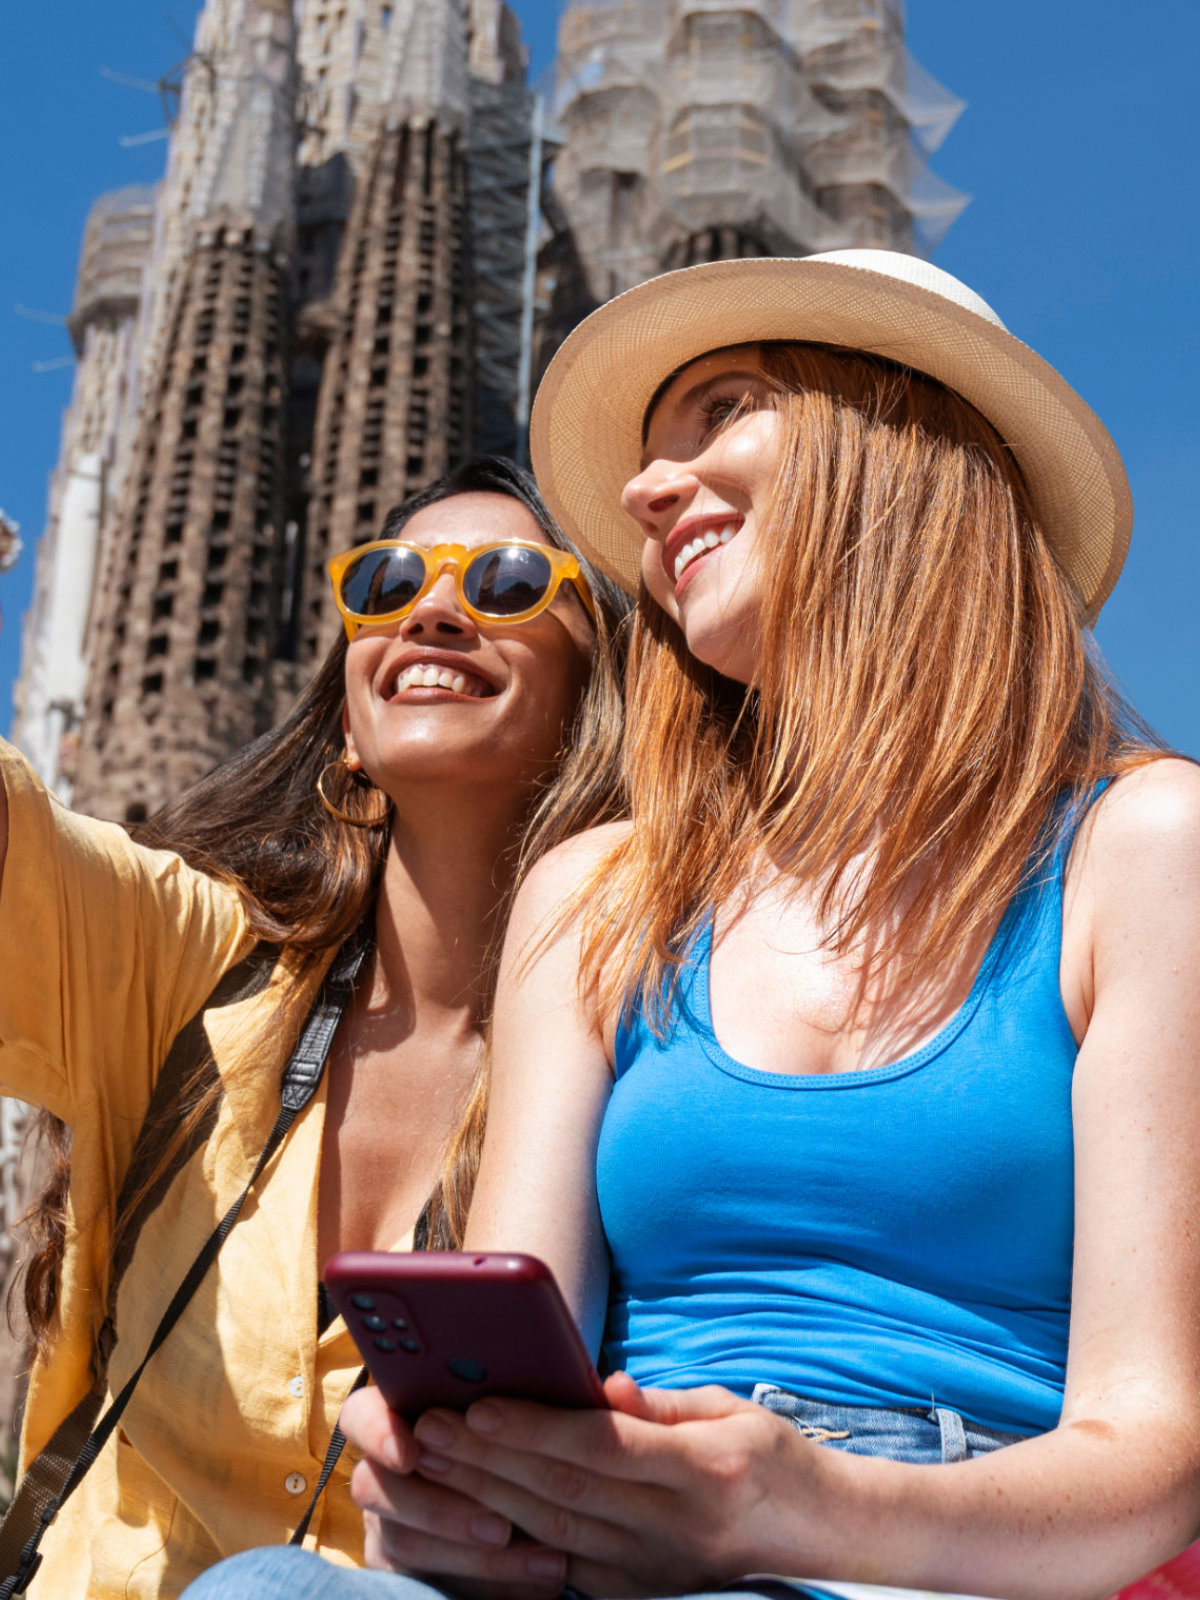
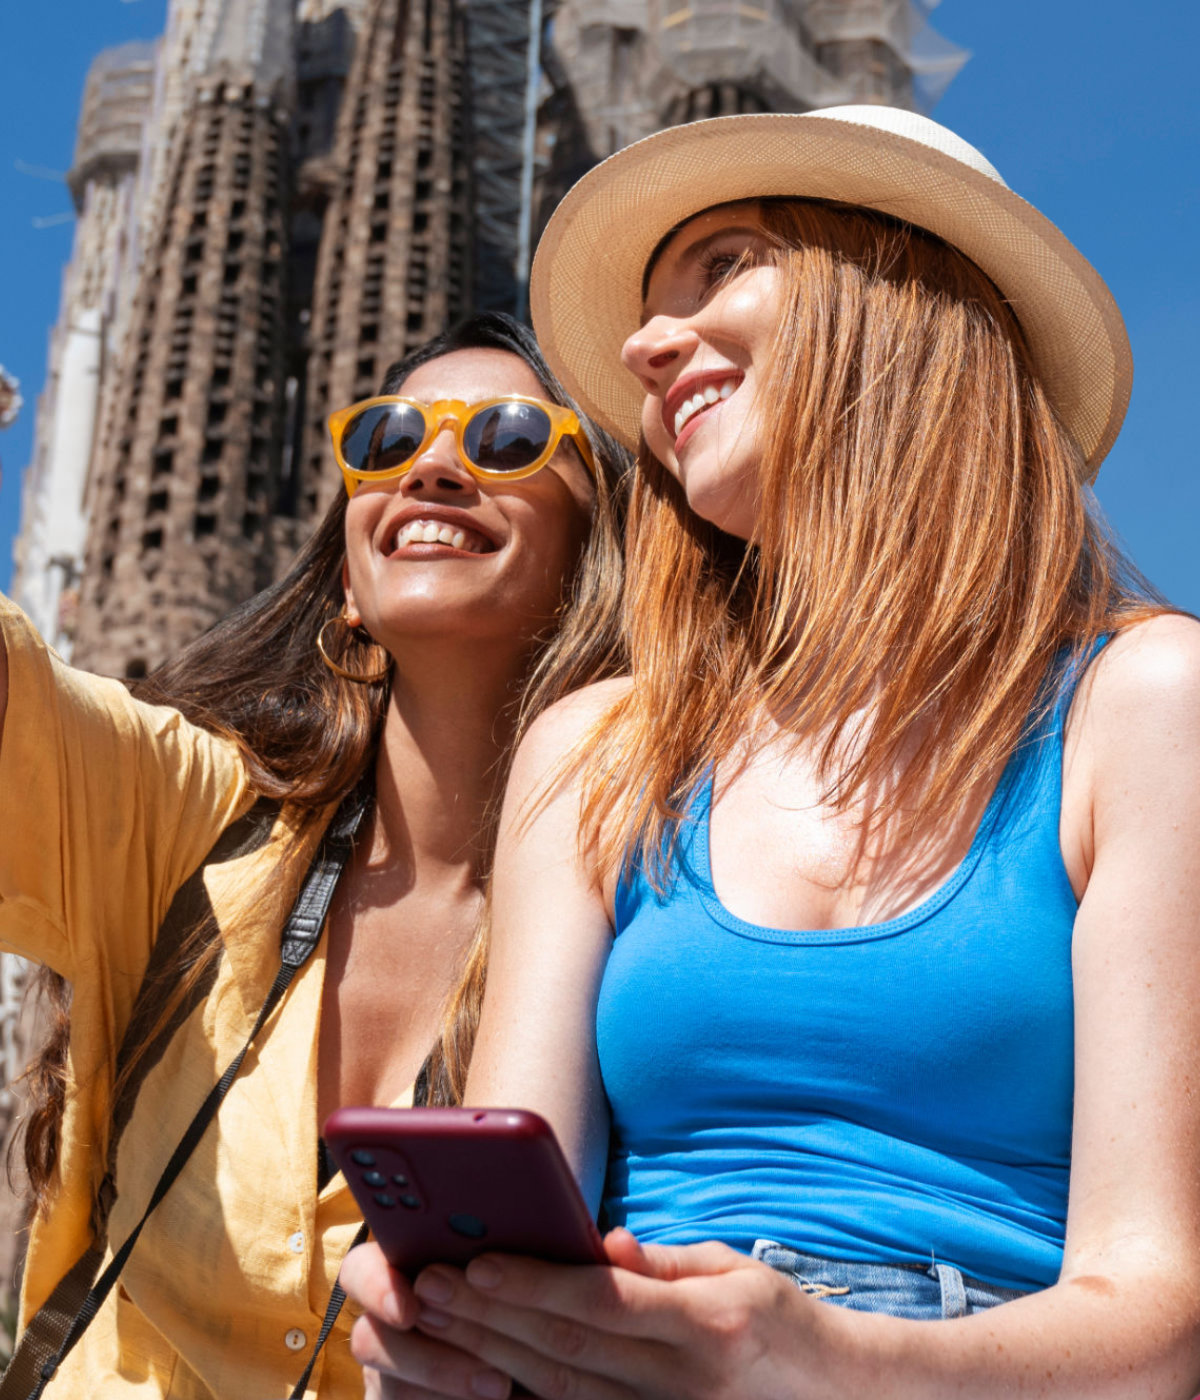
Updated site

diff --git a/index.html b/index.html
@@ -19,7 +19,8 @@
     <link rel="stylesheet" href="css/04_10_minutes_a_day.css">
     <link rel="stylesheet" href="css/05_benefits.css">
     <link rel="stylesheet" href="css/06_testimonials.css">
-    <link rel="stylesheet" href="css/07_cta.css">
+    <link rel="stylesheet" href="css/07_no_ai.css">
+    <link rel="stylesheet" href="css/08_cta.css">
 
 </head>
 <body>
@@ -151,15 +152,15 @@
         </div>
     </div>
     <!--/////////////////////////////////////////-->
-    <!-- TESTIMONIAL-->
+    <!-- NO AI-->
     <!--/////////////////////////////////////////-->
-    <div class="main_container main_container_testimonials">
+    <div class="main_container">
         <div class="container">
-            <img src="img/artist.webp" width="512px">
+            <img class="no_ai_img" src="img/artist.webp" width="512px">
             <p></p>
-            <img src="img/no_ai.webp" width="124">
+            <img class="no_ai_logo" src="img/no_ai.webp" width="124">
             <p></p>
-            <h4 style="font-weight: 500;">We believe in supporting human artists.<br>Everything you see or hear is made by humans with love.<br>We do not use generative AI.</h4>
+            <h4 style="font-weight: 500;">We support real artists.<br>Everything you see or hear is made by humans with love.<br>We do not use generative AI.</h4>
             <h3 style="font-weight: 500;"></h3>
             
         </div>

diff --git a/css/07_no_ai.css b/css/07_no_ai.css
@@ -1,0 +1,9 @@
+.no_ai_img {
+    width: 100%;
+    max-width: 512px;
+    margin-bottom: 40px;
+}
+
+.no_ai_logo {
+    max-width: 128px;
+}
